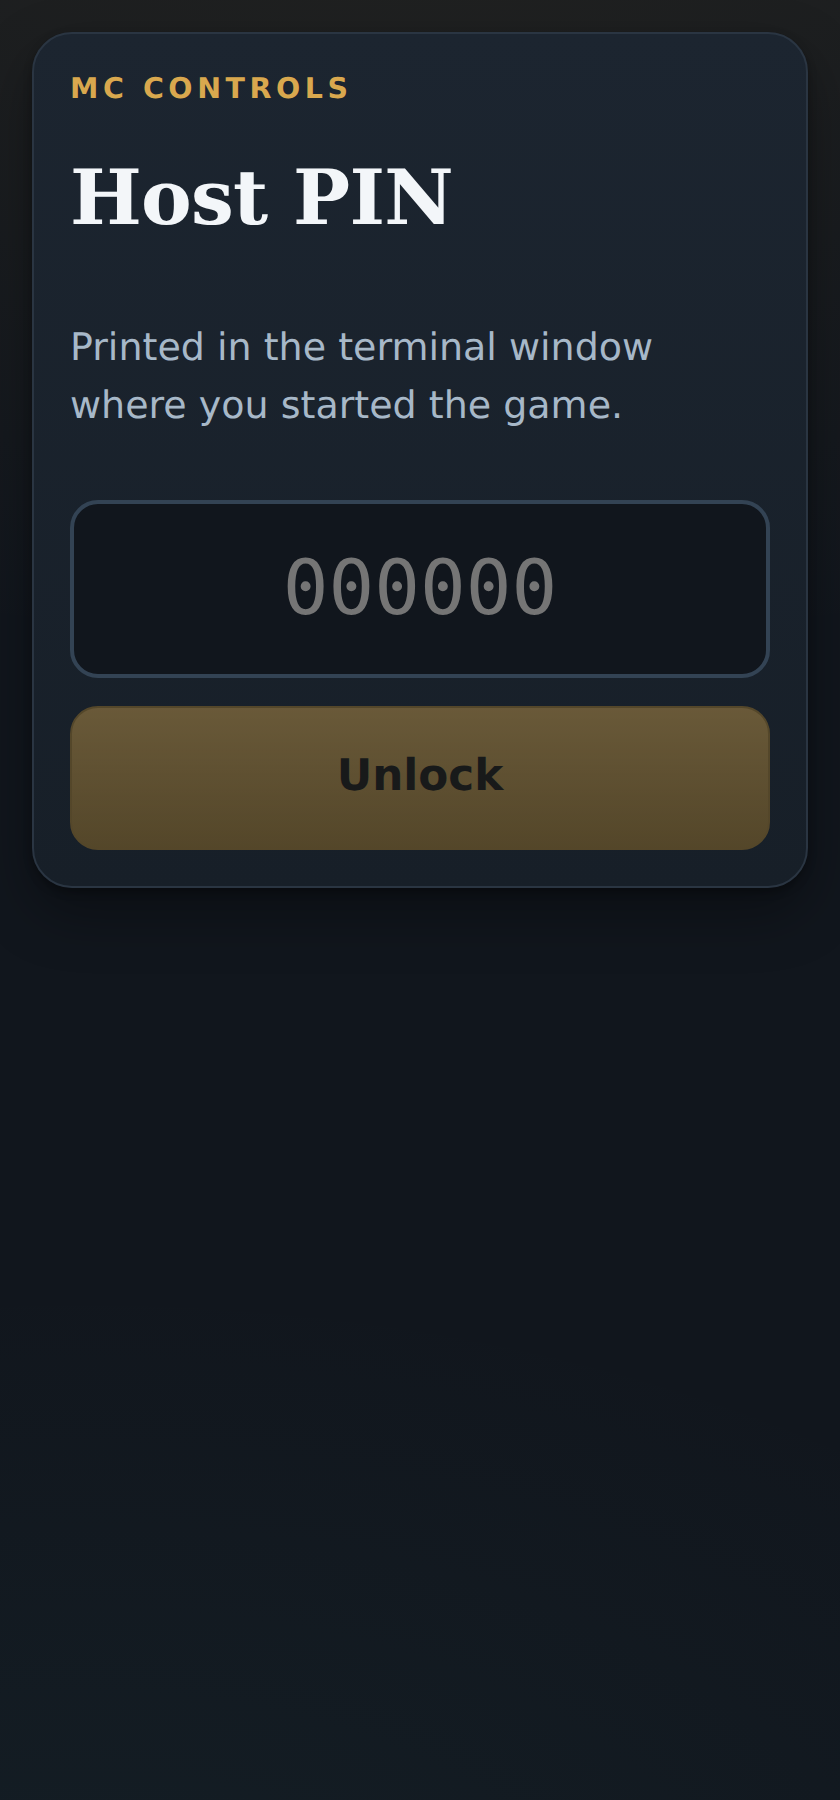
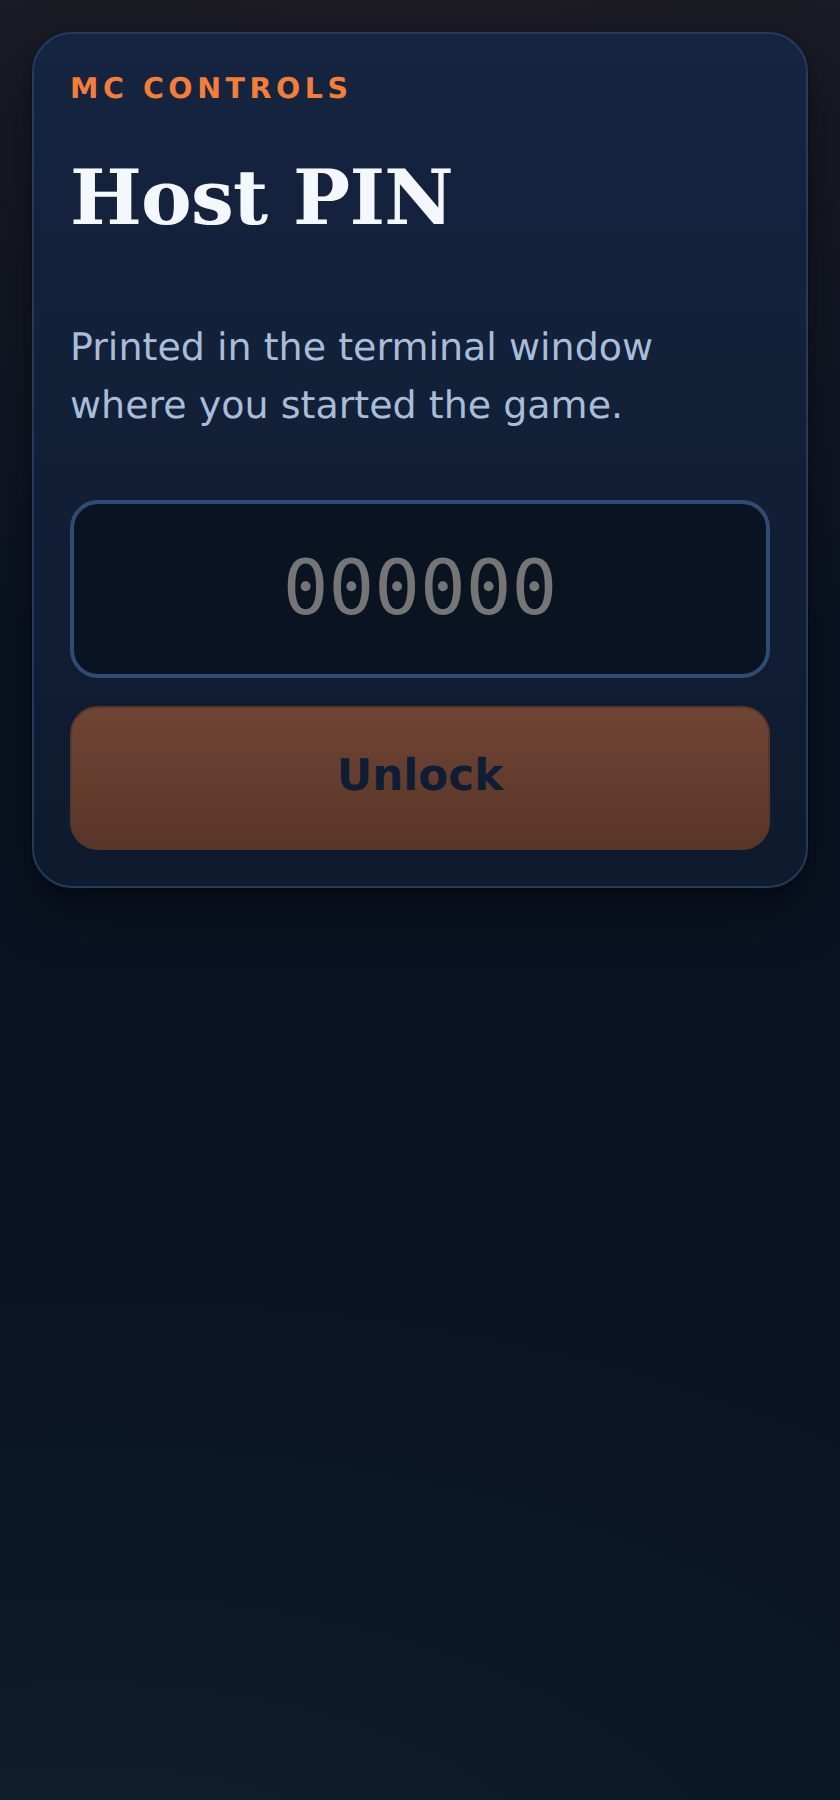
Retheme to Del Pueblo Phoenix
Palette taken from the resort site's own CSS custom properties rather than
eyedropped off a screenshot, so these are the exact brand values:
--primary rgb(244 125 57) #f47d39, --secondary rgb(22 43 83) #162b53,
--accent rgb(248 153 75) #f8994b, plus its theme set, of which --lt-blue
#5ec4d4 earns a place. The slate foundation is now a navy drawn from the same
secondary, and the brass accent is the orange.

Two deliberate departures from the site.

It stays dark. The site is white-on-light, which is right for a marketing page
and wrong for a projector in a clubhouse with the lights down, where a white
field that size is glare. The brand hues sit on navy-black instead.

Dark text on the orange, not white. The site puts white on its orange pills,
which measures 2.7:1 and fails even the large-text bar. Navy on the same
orange is 5.2:1. At arm's length, across a room, for this audience, contrast
beats matching the stylesheet.

Orange and navy are near-complementary, so mixing one into the other
desaturates to brown rather than warming. Every panel that had been tuned as
a brass tint over neutral slate went muddy, the fact panel worst of all. They
now sit on --surface-2 and let the orange carry on borders and text, which is
how the resort builds its own pills. The live-bonus pill goes solid orange
with navy on top, the same treatment as its Book Now button, so the bonus
band is a step change rather than a slightly warmer grey.
[…]

diff --git a/src/client/shared/styles.css b/src/client/shared/styles.css
@@ -13,23 +13,45 @@
  */
 
 :root {
-  --ink: #11161d;
-  --ink-2: #171f28;
-  --surface: #1c2530;
-  --surface-2: #243040;
-  --line: #334354;
-  --line-soft: #2a3542;
-  --text: #f3f6f9;
-  --text-dim: #a7b8c8;
-  --text-faint: #74879a;
+  /*
+   * Del Pueblo Phoenix, livecobblestone.com/del-pueblo. Taken from the site's
+   * own CSS custom properties rather than eyedropped from a screenshot:
+   *   --primary   rgb(244 125 57)  #f47d39   the orange on everything
+   *   --secondary rgb(22 43 83)    #162b53   the navy in the logo and pills
+   *   --accent    rgb(248 153 75)  #f8994b
+   * plus its theme set, of which --lt-blue #5ec4d4 and --br-green #8ec73d
+   * earn a place here.
+   *
+   * The site is white-on-light. This stays dark on purpose: the host screen is
+   * a projector in a clubhouse with the lights down, and a white field at that
+   * size is glare rather than brand. So the brand hues sit on a navy-black
+   * drawn from the same --secondary rather than on the old neutral slate.
+   */
+  --ink: #0a1322;
+  --ink-2: #0e1a2d;
+  --surface: #152440;
+  --surface-2: #1d3053;
+  --line: #2f4a73;
+  --line-soft: #223b5e;
+  --text: #f4f7fb;
+  --text-dim: #a8bdd8;
+  --text-faint: #7590b2;
 
-  --brass: #d9a84e;
-  --brass-deep: #a87d2c;
-  --correct: #52b06a;
-  --wrong: #d6584f;
+  /* Kept the --brass name: it is the accent slot, and renaming it would touch
+     every file for no behaviour change. It is the resort's orange now. */
+  --brass: #f47d39;
+  --brass-deep: #c05c22;
+  --navy: #162b53;
+  --correct: #7ab83f;
+  --wrong: #dc5a4d;
 
-  --a: #e0ad50;
-  --b: #46a6ae;
+  /* Answer slots keep four clearly separate hues, because colour is only one
+     of the three channels here and collapsing them into brand oranges would
+     break the other two. A and B move to the resort's orange and light blue;
+     C and D stay as they were, since the brand has no violet and no second
+     warm that is far enough from the orange. */
+  --a: #f9a04d;
+  --b: #5ec4d4;
   --c: #a98ccd;
   --d: #dc8370;
 
@@ -61,8 +83,8 @@ html, body {
 
 body {
   background-image:
-    radial-gradient(1200px 600px at 50% -10%, rgba(217,168,78,.09), transparent 70%),
-    radial-gradient(900px 500px at 10% 110%, rgba(70,166,174,.06), transparent 70%);
+    radial-gradient(1200px 600px at 50% -10%, rgba(244,125,57,.10), transparent 70%),
+    radial-gradient(900px 500px at 10% 110%, rgba(94,196,212,.07), transparent 70%);
   background-attachment: fixed;
 }
 
@@ -161,9 +183,9 @@ input:focus { border-color: var(--brass); outline: none; }
 .btn-primary {
   background: linear-gradient(180deg, var(--brass) 0%, var(--brass-deep) 100%);
   border-color: var(--brass-deep);
-  color: #1a1206;
+  color: #10203c;
 }
-.btn-danger { border-color: #6e2f2b; color: #f0a9a4; }
+.btn-danger { border-color: #76312c; color: #f3aca6; }
 .btn-ghost { background: transparent; }
 .btn-lg { min-height: 72px; font-size: 1.15rem; }
 .btn-sm { min-height: 44px; padding: 8px 14px; font-size: .9rem; }
@@ -225,7 +247,7 @@ input:focus { border-color: var(--brass); outline: none; }
   font-family: var(--serif);
   font-size: 1.4rem;
   font-weight: 700;
-  color: #14191f;
+  color: #0f1b30;
   background: var(--slot, var(--brass));
 }
 .badge[data-shape="circle"] { border-radius: 50%; }
@@ -254,7 +276,7 @@ input:focus { border-color: var(--brass); outline: none; }
   /* Width is set inline from the deadline; no transition so a host extending
      the clock doesn't animate backwards through a stale value. */
 }
-.timer.is-low > i { background: linear-gradient(90deg, var(--wrong), #a63a33); }
+.timer.is-low > i { background: linear-gradient(90deg, var(--wrong), #a8392f); }
 
 .timer-row { display: flex; align-items: center; gap: 14px; }
 .timer-count {
@@ -310,13 +332,13 @@ input:focus { border-color: var(--brass); outline: none; }
   font-size: .85rem;
   font-weight: 600;
 }
-.pill-brass { background: color-mix(in srgb, var(--brass) 18%, var(--surface)); border-color: var(--brass-deep); color: var(--brass); }
-/* While a bonus band is still live the value is worth looking at, so it reads
-   a shade hotter than the resting brass. No animation: this screen is held at
+.pill-brass { background: color-mix(in srgb, var(--brass) 10%, var(--ink-2)); border-color: var(--brass-deep); color: #f9a04d; }
+/* While a bonus band is still live the pill goes solid, which is how the
+   resort builds its own call-to-action pills. No animation: this is held at
    arm's length for twenty seconds and a pulsing number is a distraction. */
-.pill-live { background: color-mix(in srgb, var(--brass) 34%, var(--surface)); color: #ffe6ad; }
-.pill-ok { background: color-mix(in srgb, var(--correct) 18%, var(--surface)); border-color: #2f6b3d; color: #8fd79f; }
-.pill-bad { background: color-mix(in srgb, var(--wrong) 18%, var(--surface)); border-color: #6e2f2b; color: #f0a9a4; }
+.pill-live { background: var(--brass); border-color: var(--brass); color: var(--navy); font-weight: 700; }
+.pill-ok { background: color-mix(in srgb, var(--correct) 18%, var(--surface)); border-color: #4c7d26; color: #bfe08a; }
+.pill-bad { background: color-mix(in srgb, var(--wrong) 18%, var(--surface)); border-color: #76312c; color: #f3aca6; }
 
 .dots { display: flex; gap: 6px; flex-wrap: wrap; }
 .dot { width: 12px; height: 12px; border-radius: 50%; background: var(--line); }
@@ -335,12 +357,12 @@ input:focus { border-color: var(--brass); outline: none; }
   background: var(--surface);
   border: 1px solid var(--line-soft);
 }
-.board-row.is-lead { border-color: var(--brass-deep); background: color-mix(in srgb, var(--brass) 10%, var(--surface)); }
+.board-row.is-lead { border-color: var(--brass); background: color-mix(in srgb, var(--brass) 7%, var(--surface-2)); }
 .board-rank { font-family: var(--serif); font-size: 1.3rem; color: var(--text-dim); text-align: center; }
 .board-name { font-weight: 600; overflow: hidden; text-overflow: ellipsis; white-space: nowrap; }
 .board-score { font-family: var(--mono); font-size: 1.3rem; font-variant-numeric: tabular-nums; }
 .board-delta { font-family: var(--mono); font-size: .95rem; min-width: 4ch; text-align: right; }
-.board-delta.up { color: #8fd79f; }
+.board-delta.up { color: #bfe08a; }
 .board-delta.flat { color: var(--text-faint); }
 
 /* ---------------------------------------------------------------- host */
@@ -382,7 +404,7 @@ input:focus { border-color: var(--brass); outline: none; }
   background: var(--surface);
   border: 1px solid var(--line-soft);
 }
-.rail-row.is-lead { border-color: var(--brass-deep); background: color-mix(in srgb, var(--brass) 12%, var(--surface)); }
+.rail-row.is-lead { border-color: var(--brass); background: color-mix(in srgb, var(--brass) 7%, var(--surface-2)); }
 .rail-rank { font-family: var(--serif); color: var(--text-dim); font-size: clamp(.95rem, 1.1vw, 1.3rem); }
 .rail-name {
   font-weight: 600;
@@ -508,7 +530,7 @@ input:focus { border-color: var(--brass); outline: none; }
   font-size: clamp(1.1rem, 1.9vw, 1.65rem);
   line-height: 1.45;
   color: var(--text);
-  background: color-mix(in srgb, var(--brass) 9%, var(--surface));
+  background: var(--surface-2);
   border-left: 5px solid var(--brass);
   border-radius: 0 var(--radius) var(--radius) 0;
   padding: clamp(16px, 2vw, 26px) clamp(18px, 2.4vw, 32px);
@@ -532,12 +554,12 @@ input:focus { border-color: var(--brass); outline: none; }
   padding: 14px 18px;
   border-radius: var(--radius);
   background: color-mix(in srgb, var(--correct) 16%, var(--surface));
-  border: 1px solid #2f6b3d;
+  border: 1px solid #4c7d26;
 }
 .warn {
   padding: 12px 16px;
   border-radius: var(--radius);
-  background: color-mix(in srgb, var(--brass) 14%, var(--surface));
+  background: color-mix(in srgb, var(--brass) 7%, var(--surface-2));
   border: 1px solid var(--brass-deep);
   font-size: .92rem;
 }
@@ -610,7 +632,7 @@ input:focus { border-color: var(--brass); outline: none; }
   font-weight: 600;
 }
 .chip[aria-pressed="true"] {
-  background: color-mix(in srgb, var(--brass) 20%, var(--surface));
+  background: color-mix(in srgb, var(--brass) 10%, var(--surface-2));
   border-color: var(--brass-deep);
   color: var(--brass);
 }
@@ -644,7 +666,7 @@ input:focus { border-color: var(--brass); outline: none; }
 }
 .draft-option.is-answer {
   background: color-mix(in srgb, var(--correct) 18%, var(--ink));
-  border-color: #2f6b3d;
+  border-color: #4c7d26;
   font-weight: 600;
 }
 
@@ -652,7 +674,7 @@ input:focus { border-color: var(--brass); outline: none; }
   font-size: .9rem;
   padding: 10px 14px;
   border-radius: 8px;
-  background: color-mix(in srgb, var(--brass) 12%, var(--surface));
+  background: color-mix(in srgb, var(--brass) 7%, var(--surface-2));
   border: 1px solid var(--brass-deep);
 }
 
